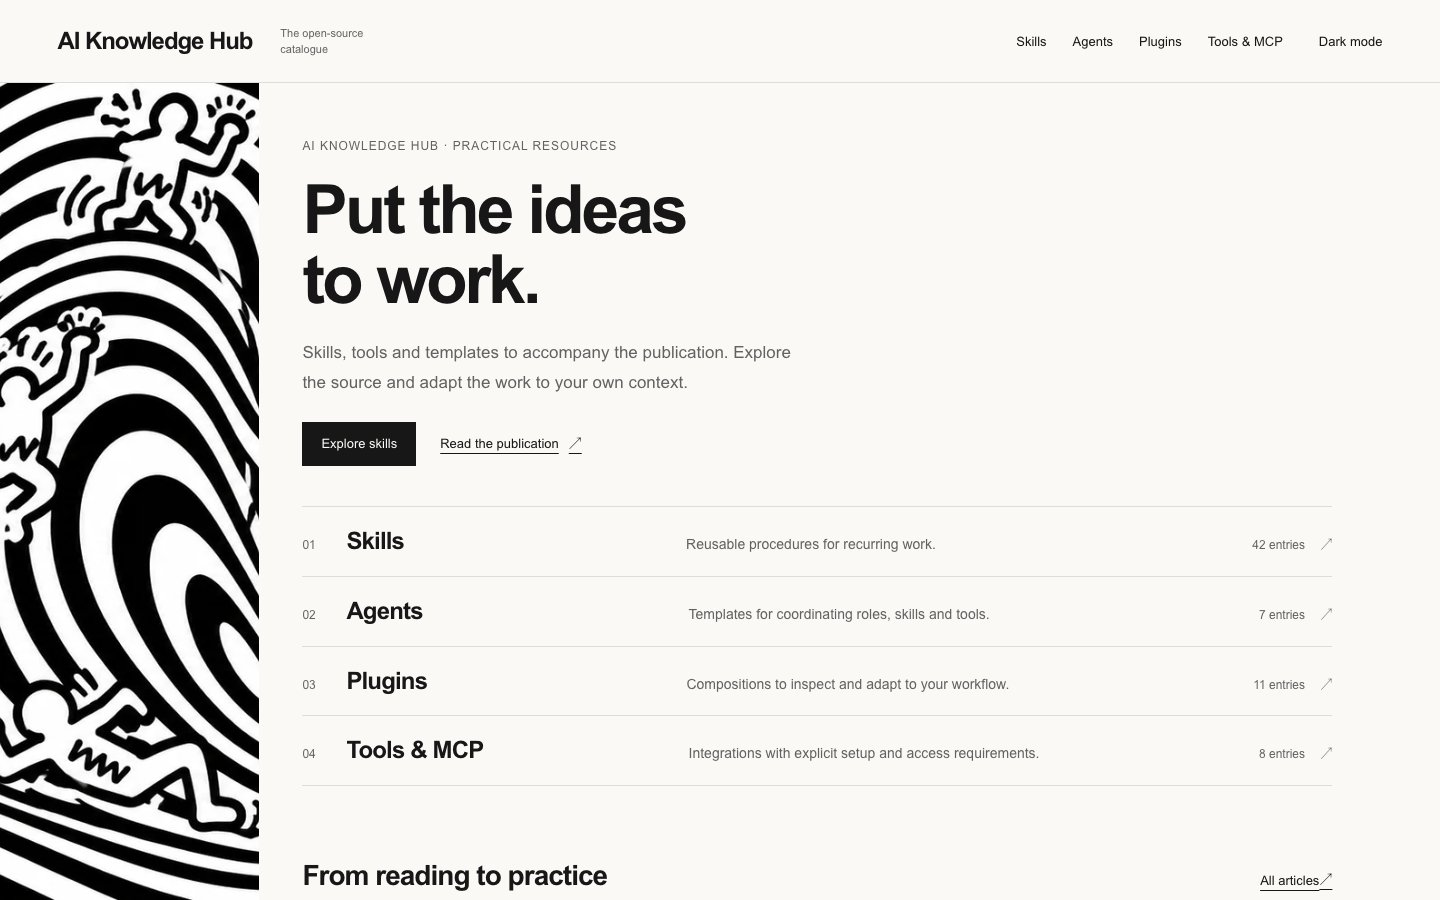
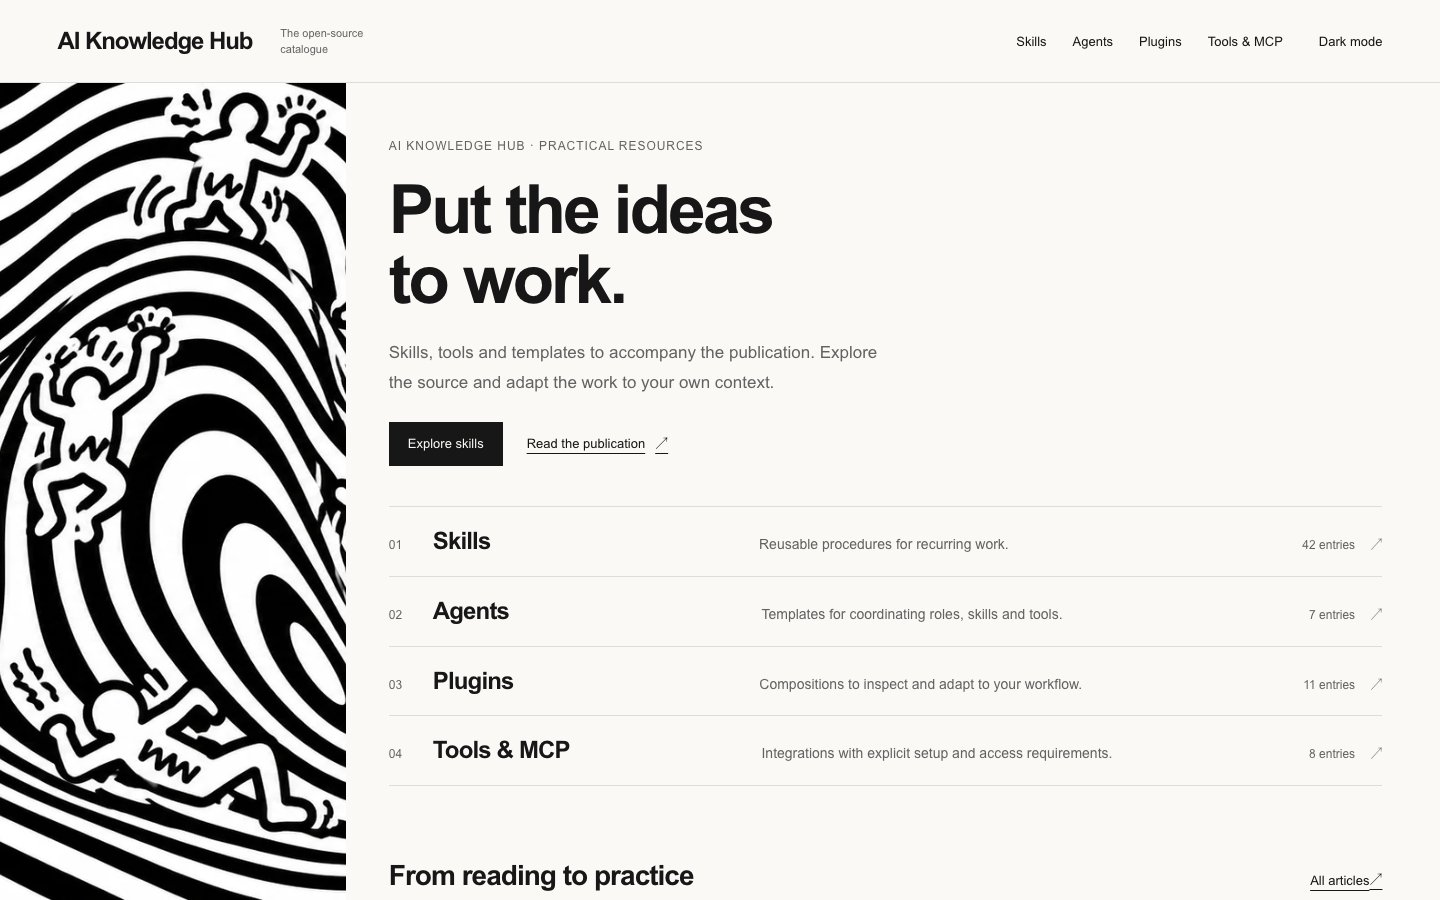
fix(web): widen the oval artwork rail to 24vw

diff --git a/apps/web/app/globals.css b/apps/web/app/globals.css
@@ -117,7 +117,7 @@ a.catalog-card:hover { text-decoration: none; }
 @media (min-width: 1000px) and (min-aspect-ratio: 4/5) {
   .catalogue-main {
     --catalogue-sticky-top: calc(var(--header-height) + 1px); /* Header's bottom border. */
-    --catalogue-rail-width: clamp(160px, 18vw, 280px);
+    --catalogue-rail-width: clamp(220px, 24vw, 380px);
     --catalogue-rail-gap: clamp(28px, 3vw, 48px);
     padding-inline: 0;
   }

diff --git a/docs/practical-companion-landing.md b/docs/practical-companion-landing.md
@@ -23,12 +23,12 @@ Interaction follows ordinary links, visible focus/hover cues and the existing
 sticky rail. The selected artwork, text and figures remain static. This calmer
 brief does not add an entrance animation, a new renderer or a motion dependency.
 
-Desktop uses `clamp(160px, 18vw, 280px)` for the shared home/catalogue rail,
+Desktop uses `clamp(220px, 24vw, 380px)` for the shared home/catalogue rail,
 contained by `main` so it stops before the footer. Following the owner's
 2 November crop selection, its full-height crop uses `81% center` registration
 to feature the right-hand oval swirl rather than the middle folds. The source
 artwork and delivery files are unchanged. At 1440 CSS pixels the rail is
-approximately 259px,
+approximately 346px, increased from the initial 259px crop,
 compared with approximately 410px at a 900px-high viewport in the prior design.
 Compact home layouts use a 100px artwork band (140px at tablet widths); catalogue
 pages retain their compact heading treatment with the new artwork.
@@ -135,14 +135,17 @@ review step. No provider verification or production promotion occurs.
 The owner selected the oval swirl shown in their screenshot. The shared desktop
 rail now uses `81% center` instead of the original `44% center`, bringing that
 part of the existing artwork into view on Home and all four catalogue pages.
-Rail width, scaling, compact layouts, source pixels and delivery hashes are
-unchanged.
+The owner subsequently approved widening the shared desktop rail from 18vw
+(280px maximum) to 24vw (380px maximum), closer to the publication Library's
+proportions. At 1440px this increases the visible artwork from about 259px to
+346px. Scaling, compact layouts, source pixels and delivery hashes are unchanged.
 
-The production build, lint/types and two existing browser regressions pass
-(rail/footer containment and active-layout artwork requests). A separate local
-Chrome check covers five routes × two themes × six viewport sizes: 1024×768,
-1440×900, 1920×1080, 390×844, 768×1024 and 1024×1440. All 60 views reflow without
-horizontal overflow; all 30 desktop cases keep the selected oval's source focal
-point inside the rail's central half. No page exceptions were observed.
+The production build, lint/types and three existing browser regressions pass
+(open filter menus, rail/footer containment and active-layout artwork requests).
+A separate local Chrome check covers five routes × two themes × eight viewport
+sizes: 1000×768, 1024×768, 1440×900, 1600×900, 1920×1080, 390×844, 768×1024 and
+1024×1440. All 80 views reflow without horizontal or filter-grid overflow; all
+50 desktop cases keep the selected oval's source focal point inside the rail's
+central half. No page exceptions were observed.
 
 [Home, light](reviews/oval-artwork-2026-11-02/home-1440-light.jpg) · [Skills, dark](reviews/oval-artwork-2026-11-02/skills-1440-dark.jpg)
